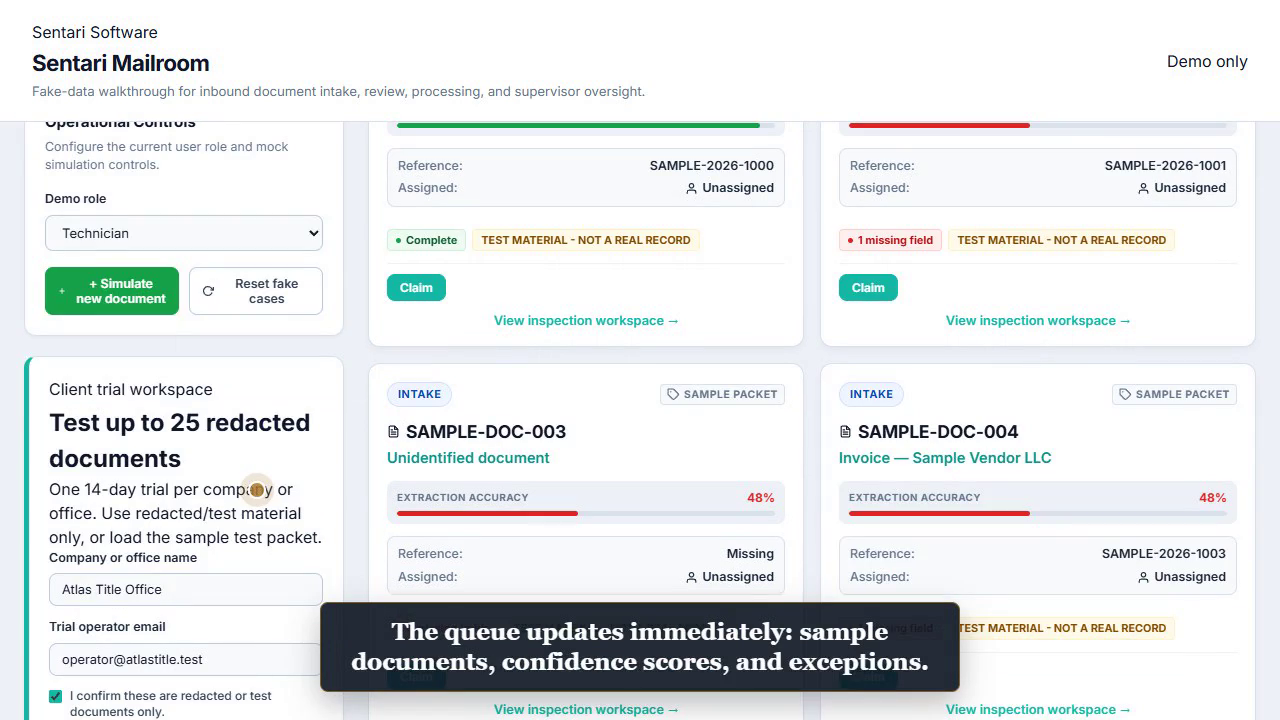
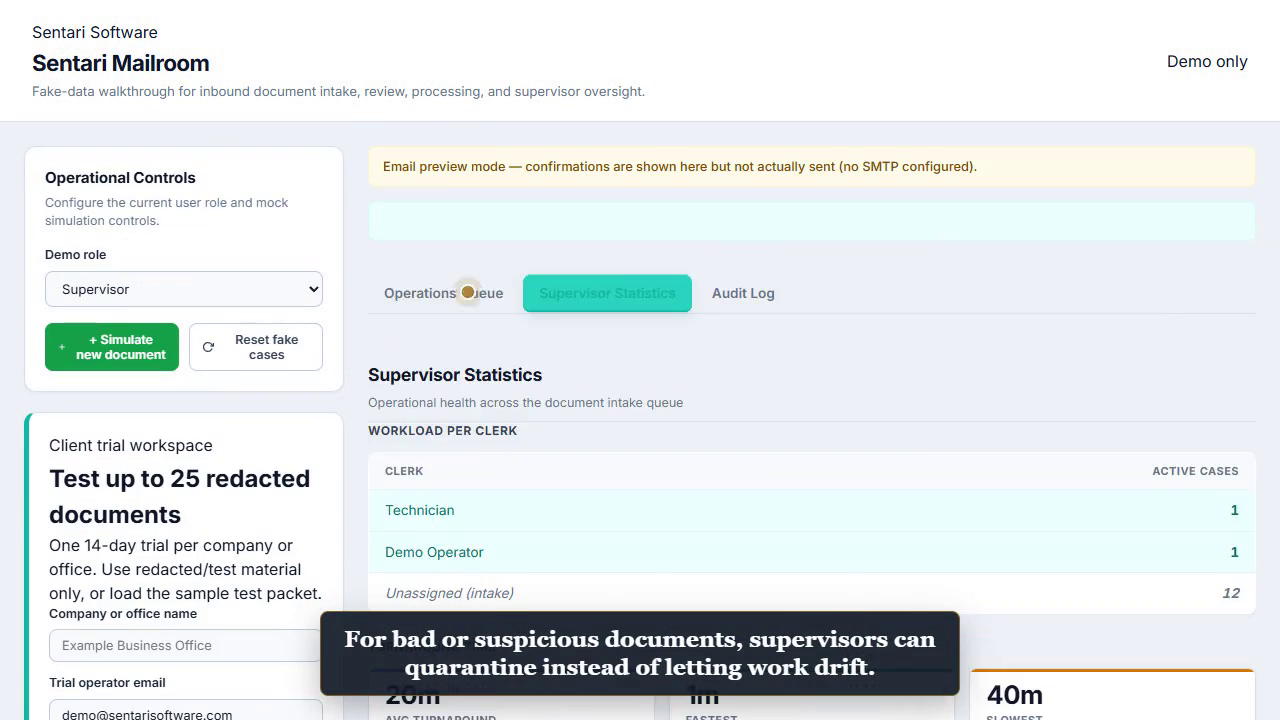
Rebuild demo video around staff workflows

diff --git a/index.html b/index.html
@@ -173,7 +173,7 @@
 <section class="demo-video" id="demo-video"><div class="wrap">
   <div class="sec-head">
     <span class="kicker">See it in action</span>
-    <h2>Watch a document become a tracked, searchable record.</h2>
+    <h2>Watch the technician queue become supervisor control.</h2>
     <p>A narrated walkthrough of the hosted Sentari Mailroom demo, using fake sample documents only.</p>
   </div>
   <div class="video-shell">